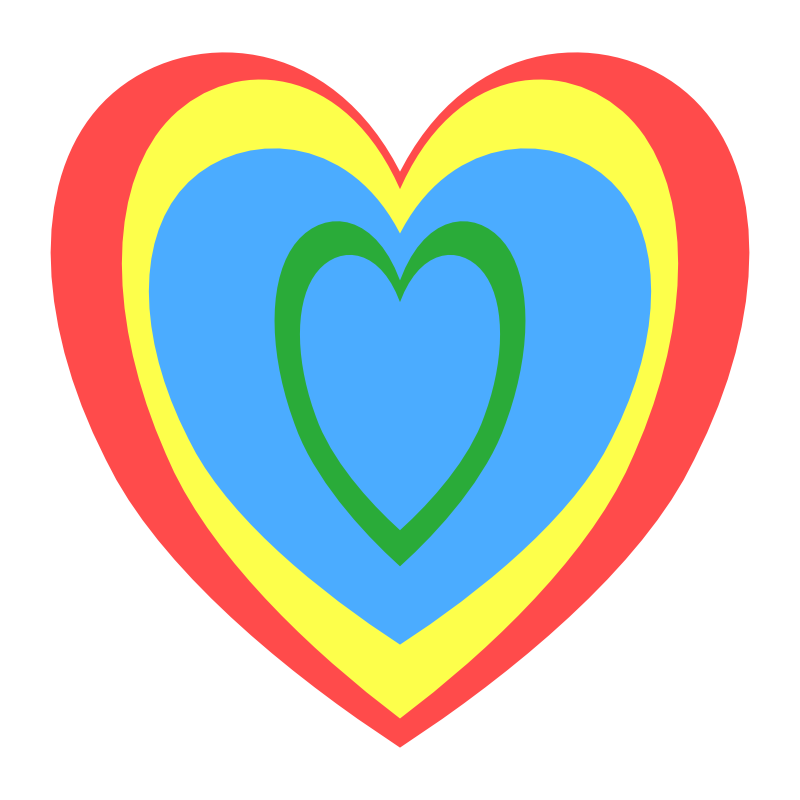
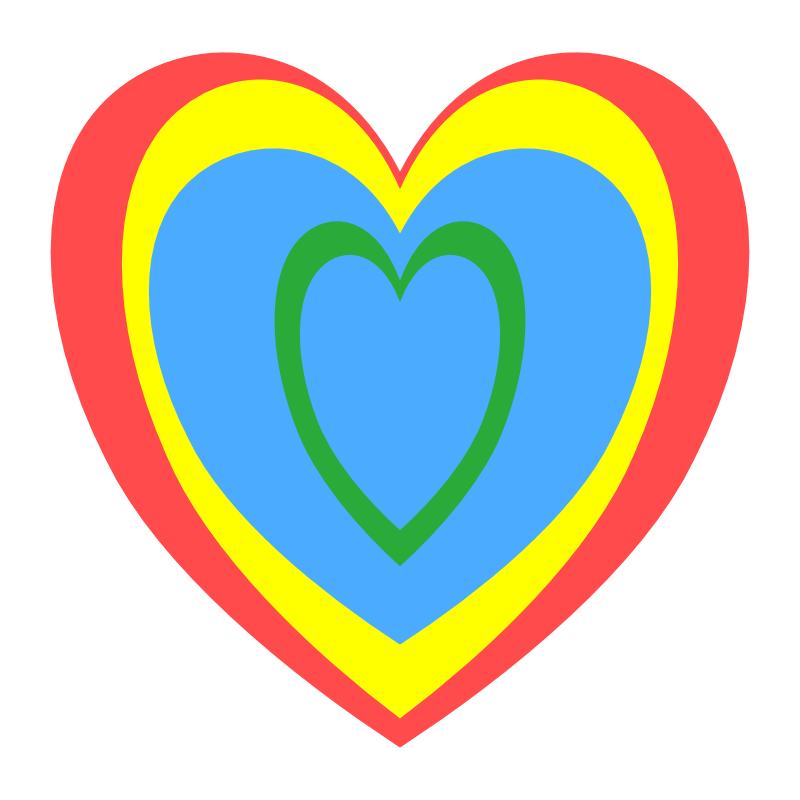
Main mechanics

Changed region(s): [[0.125, 0.0938, 0.875, 0.9062]]

diff --git a/src/lib/Card.svelte b/src/lib/Card.svelte
@@ -2,6 +2,8 @@
     export let cardId: string
 
     let image: HTMLImageElement
+    let percentages: { [key: string]: number } | undefined = undefined
+    let showPercentages = false
 
     function checkPercentages(image: HTMLImageElement) {
         // Warte, bis das Bild geladen ist
@@ -47,7 +49,7 @@
                     color = "green"
                 } else if (b > r && b > g) {
                     color = "blue"
-                } else if (r > b && g > b) {
+                } else if (r > 200 && g > 200 && b < 100) {
                     color = "yellow"
                 }
                 // Zähle die Anzahl der Pixel jeder Farbe
@@ -57,7 +59,7 @@
             }
             // Berechne die Farbanteile in Prozent
             const total = width * height
-            const percentages = {} as { [key: string]: number }
+            percentages = {}
             for (let color in colors) {
                 percentages[color] = (colors[color] / total) * 100
             }
@@ -73,11 +75,36 @@
     }
 </script>
 
-<img bind:this={image} src={`/cards/${cardId}.png`} alt="Abstract shapes" />
+<div class="position-relative">
+    <div class="position-absolute p-3">
+        <button
+            type="button"
+            class="btn btn-primary"
+            on:click={() => {
+                showPercentages = !showPercentages
+            }}>Zeige Werte</button
+        >
 
-<style>
-    img {
-        border: 0.25rem solid black;
-        border-radius: 1rem;
-    }
-</style>
+        {#if showPercentages && percentages}
+            <div class="card overflow-hidden">
+                {#each Object.keys(percentages) as color}
+                    <div
+                        class={`p-3 bg-${
+                            color === "red"
+                                ? "danger"
+                                : color === "green"
+                                  ? "success"
+                                  : color === "blue"
+                                    ? "info"
+                                    : "warning"
+                        } text-white`}
+                    >
+                        <span>{color}: </span> <strong>{Math.round(percentages[color])}%</strong>
+                    </div>
+                {/each}
+            </div>
+        {/if}
+    </div>
+
+    <img bind:this={image} src={`/cards/${cardId}.png`} alt="Abstract shapes" class="border border-5 rounded w-100" />
+</div>

diff --git a/src/routes/+page.svelte b/src/routes/+page.svelte
@@ -1,5 +1,45 @@
 <script lang="ts">
+    import "../style/main.scss"
     import Card from "$lib/Card.svelte"
+
+    type CardId = string
+
+    let currentCard: CardId = "001"
+    let row: CardId[] = []
+
+    function nextRound() {
+        currentCard = "002"
+    }
 </script>
 
-<Card cardId="001" />
+<div class="container-fluid">
+    <div class="row">
+        <div class="col col-md-7"><Card cardId={currentCard} /></div>
+
+        <div class="col col-md-5">
+            <button
+                type="button"
+                class="btn btn-secondary"
+                on:click={() => {
+                    row.unshift(currentCard)
+                    row = [...row]
+                    nextRound()
+                }}>Hier ablegen</button
+            >
+
+            {#each row as cardId, index}
+                <Card {cardId} />
+
+                <button
+                    type="button"
+                    class="btn btn-secondary"
+                    on:click={() => {
+                        row.splice(index + 1, 0, currentCard)
+                        row = [...row]
+                        nextRound()
+                    }}>Hier ablegen</button
+                >
+            {/each}
+        </div>
+    </div>
+</div>

diff --git a/assets/cards/index.html b/assets/cards/index.html
@@ -1,4 +1,4 @@
-<img src="002.png" id="image" />
+<img src="001.png" id="image" />
 
 <script>
     //   // Erstelle ein Image-Objekt
@@ -51,7 +51,7 @@
                 color = "green"
             } else if (b > r && b > g) {
                 color = "blue"
-            } else if (r > b && g > b) {
+            } else if (r > 200 && g > 200 && b < 100) {
                 color = "yellow"
             }
             // Zähle die Anzahl der Pixel jeder Farbe

diff --git a/src/style/main.scss b/src/style/main.scss
@@ -1,0 +1,1 @@
+@import "../../node_modules/bootstrap/scss/bootstrap.scss";
